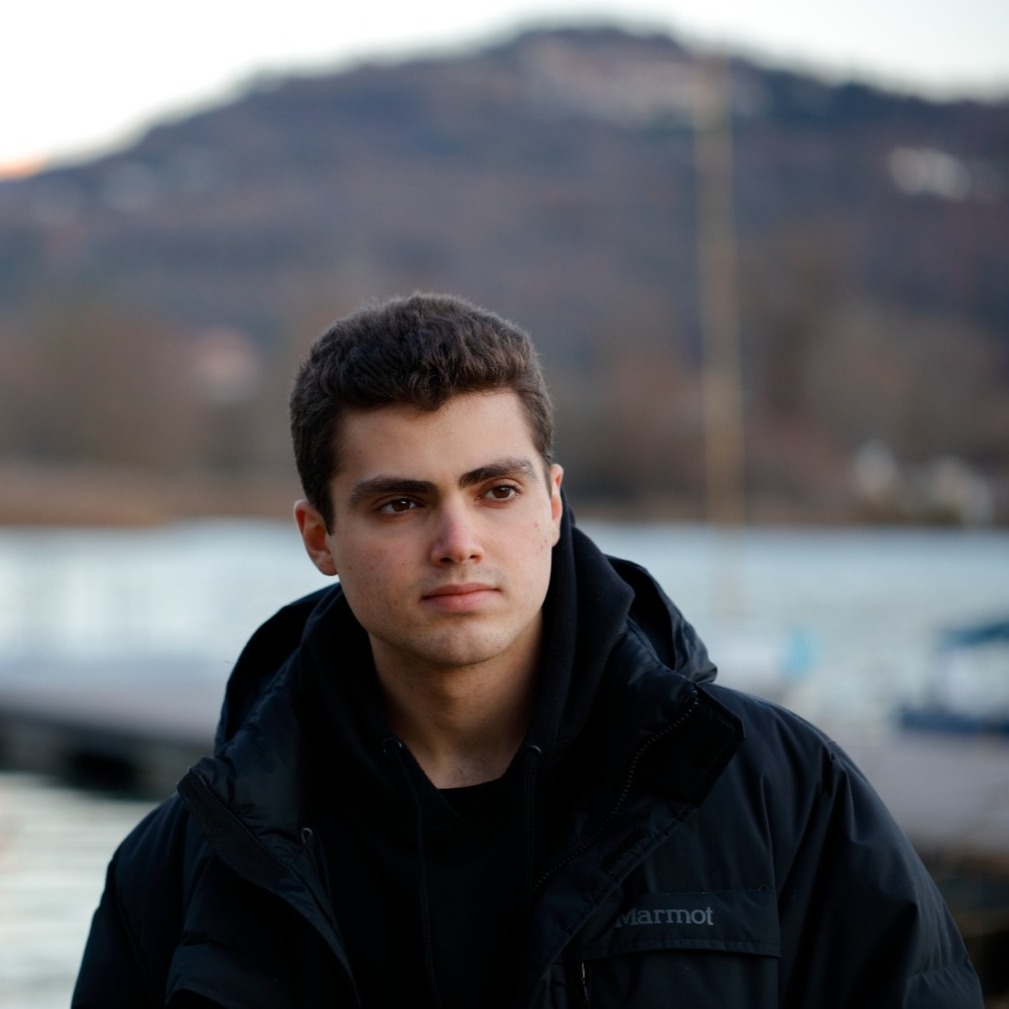
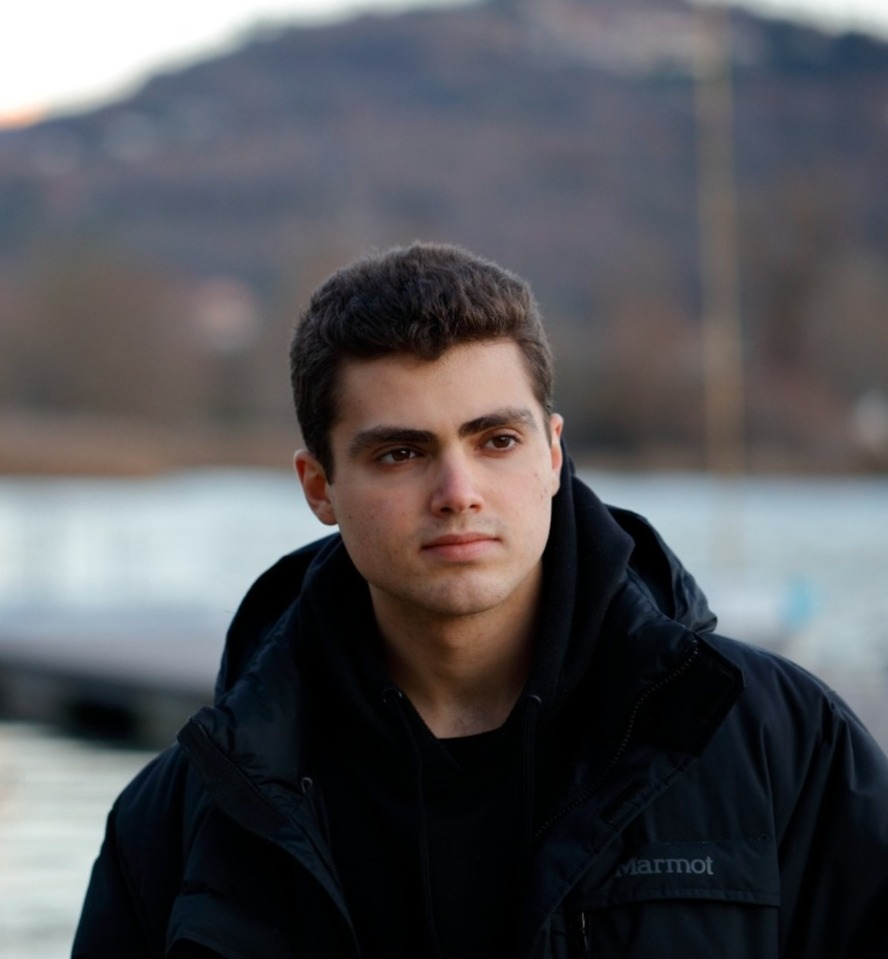
Add correct bio

diff --git a/_pages/about.md b/_pages/about.md
@@ -2,11 +2,10 @@
 permalink: /
 title: "Simone Pasquini"
 author_profile: true
-redirect_from: 
-  - /about/
-  - /about.html
 ---
 
-A curious, goal-oriented and persevering MSc degree student in physics, passionate about technology, data analysis and artificial intelligence. I enjoy extrapolating and interpreting physical results through computational methods and algorithm development.
+![Simone Pasquini](images/FotoSimone.jpeg)
 
-You can check more about me on my [LinkedIn page](https://www.linkedin.com/in/simone-pasquini7/). My computing projects are available at my [GitHub page](https://github.com/simop07/).
+Hi, welcome to my personal page! I am Simone, an MSc student in Physics with a passion for technology, data analysis, and artificial intelligence. I enjoy interpreting physical results through computational methods and developing algorithms to tackle complex problems.  
+
+You can check more about my professional background on my [LinkedIn page](https://www.linkedin.com/in/simone-pasquini7/).
